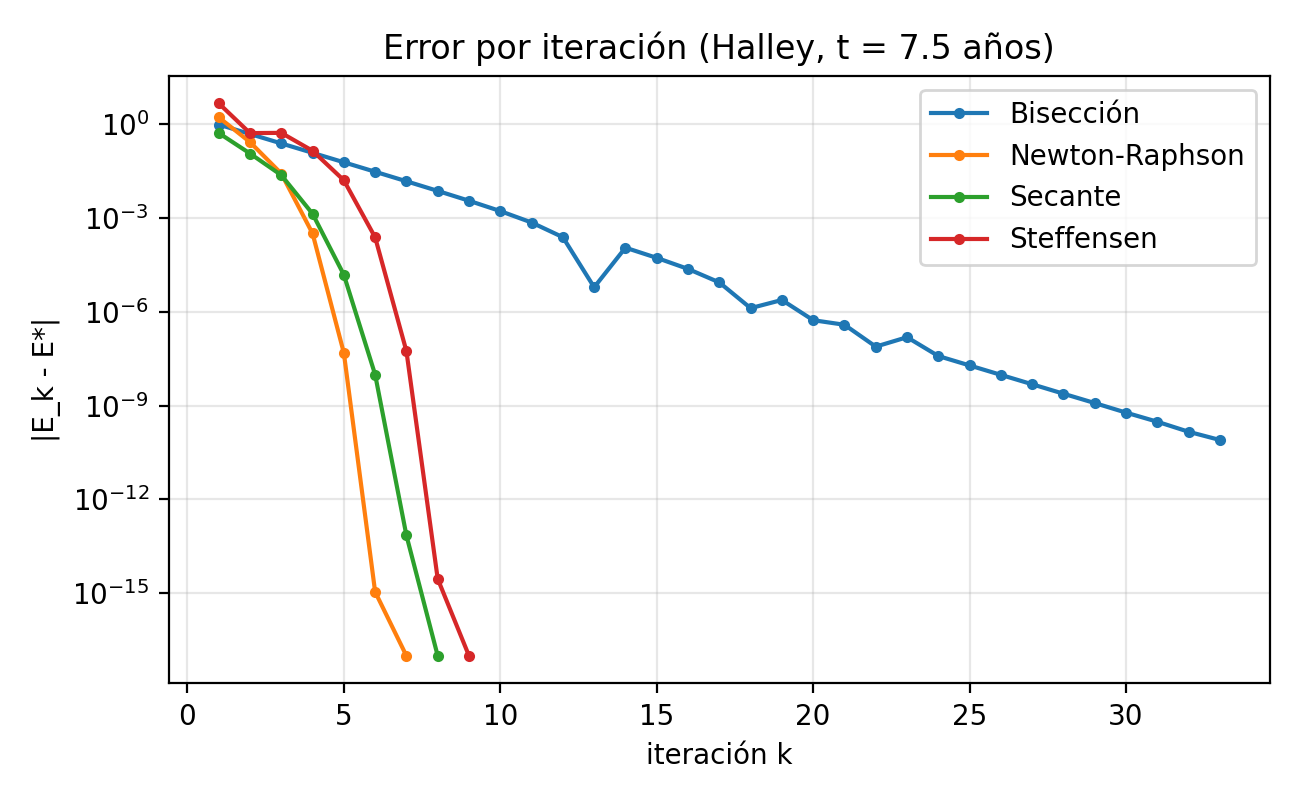
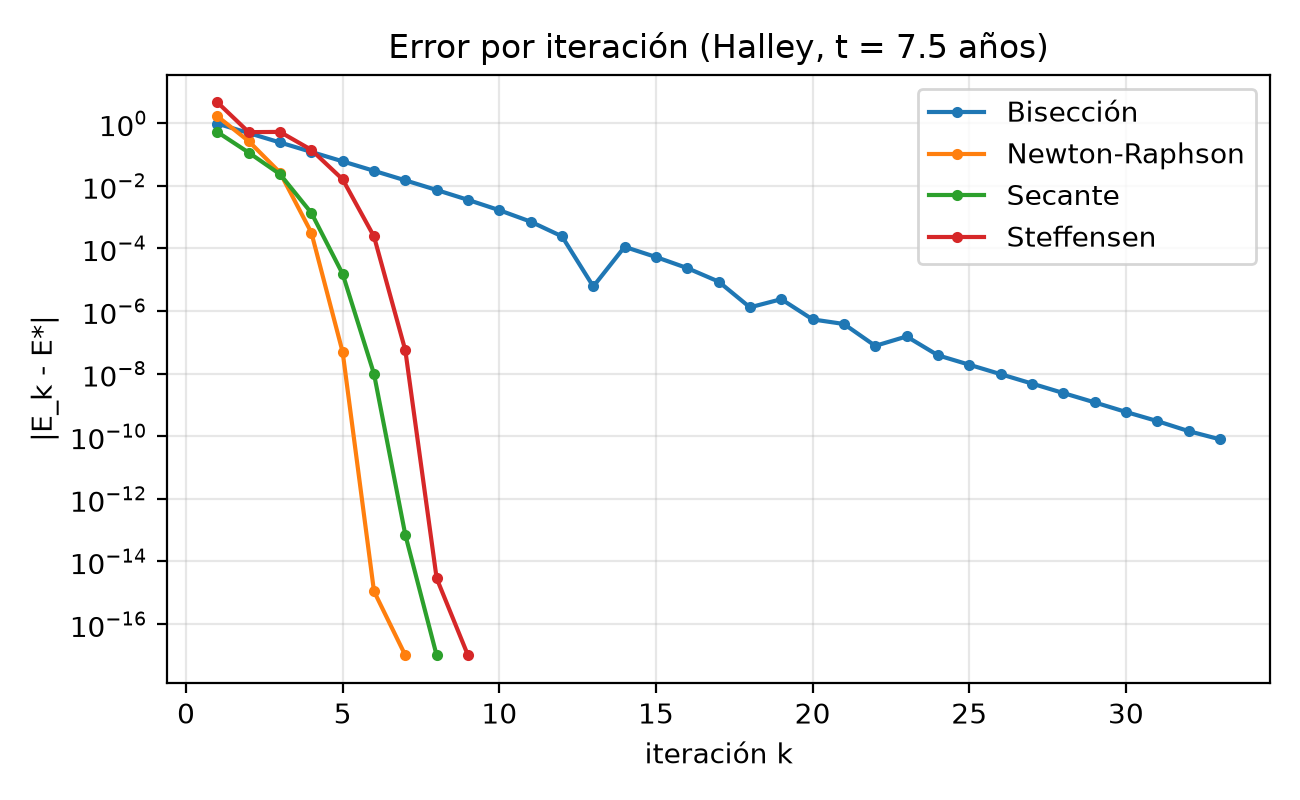
bug fix

diff --git a/src/problema_halley.py b/src/problema_halley.py
@@ -1,3 +1,4 @@
+"""Módulo del problema físico de Kepler (cometa Halley) y experimentos de la Parte B."""
 import math
 import time
 
@@ -28,17 +29,19 @@ def posicion_orbital(E, a=A_HALLEY, e=E_HALLEY):
 
 
 def evaluar_metodo(nombre, func_metodo, args_metodo, e, M):
-    """Mide tiempo de ejecución y estandariza la impresión exigida por el curso."""
+    """Ejecuta el método, cronometra y muestra la salida exigida por el enunciado."""
     t0 = time.perf_counter()
     xk, erk, k, conv = func_metodo(*args_metodo)
     dt = time.perf_counter() - t0
+    if xk is None:
+        print(f"{nombre:<15} | No convergió (sin cambio de signo)")
+        return
     residuo = abs(f_kepler(xk, e, M))
     estado = "Convergió" if conv == 1 else "No convergió"
     print(f"{nombre:<15} | {estado:<12} | k={k:<4} | E*={xk:.10f} | |f(E*)|={residuo:.2e} | t={dt:.6f}s")
 
 
 def experimento_halley_real(metodos):
-    """Experimento 1: Órbita real de Halley en distintos instantes de tiempo."""
     tiempos = [1.0, 5.0, 15.0, T_HALLEY / 2.0]
     tol = 1e-10
     print("\n--- EXPERIMENTO 1: ÓRBITA REAL DEL COMETA HALLEY ---")
@@ -56,7 +59,6 @@ def experimento_halley_real(metodos):
 
 
 def experimento_caso_dificil(metodos):
-    """Experimento 2: Excentricidad extrema (e -> 1) y M pequeña variando E0."""
     e_dif = 0.999
     M_peq = 0.01
     tol = 1e-10
@@ -74,5 +76,4 @@ def experimento_caso_dificil(metodos):
 
 
 if __name__ == "__main__":
-    # Cuando A 
     print(f"Constantes cargadas -> a = {A_HALLEY:.4f} UA, T = {T_HALLEY:.4f} años")

diff --git a/src/exp_convergencia.py b/src/exp_convergencia.py
@@ -27,7 +27,7 @@ REPETICIONES = 200        # repeticiones por método para medir el tiempo
 CARPETA_RES = Path(__file__).resolve().parent.parent / "resultados"
 METODOS = ["Bisección", "Newton-Raphson", "Secante", "Steffensen"]
 TEORICO = {"Bisección": "1 (lineal, razón ~1/2)", "Newton-Raphson": "2",
-           "Secante": "≈1.618", "Steffensen": "2"}
+           "Secante": "~1.618", "Steffensen": "2"}
 
 
 def valores_iniciales(nombre, e, M):
